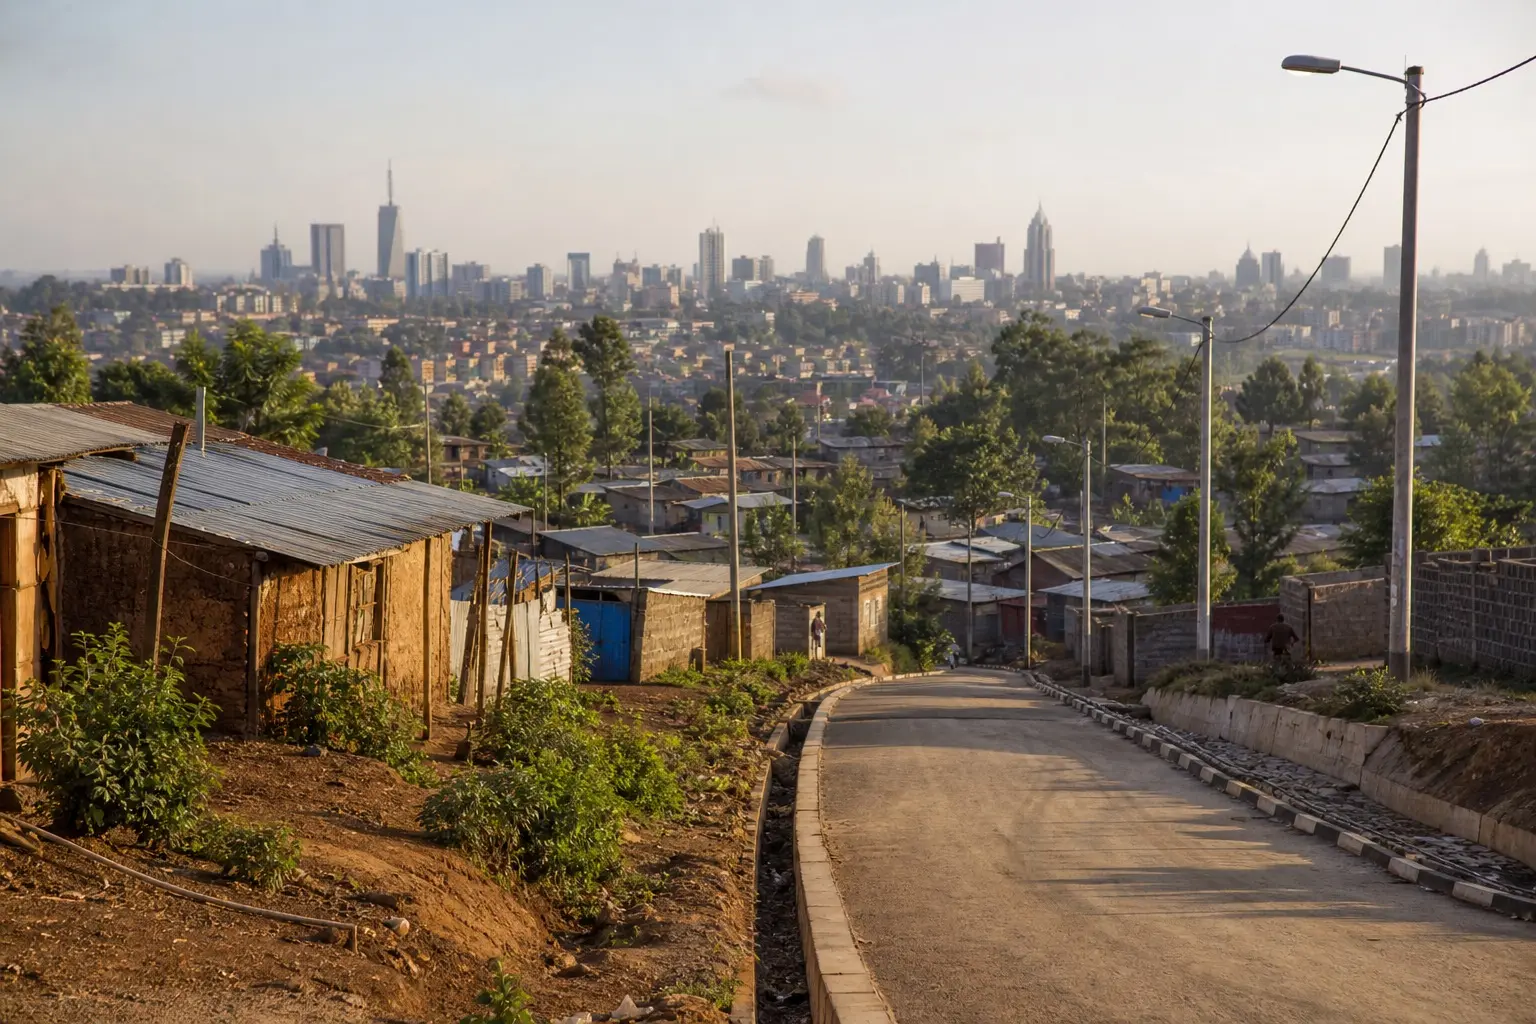
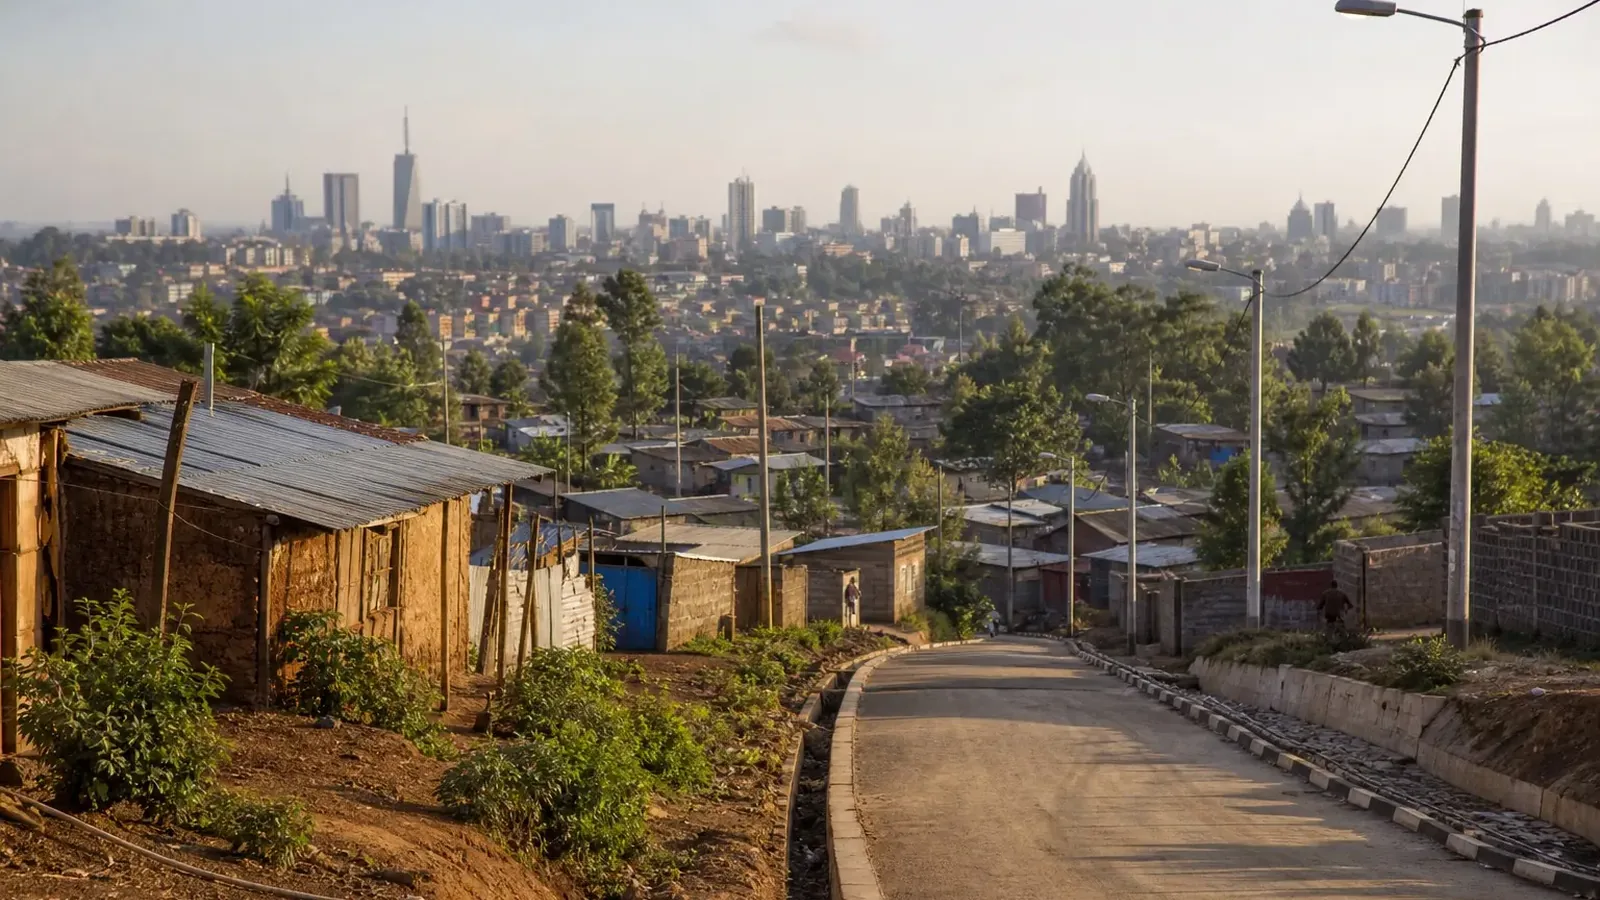
Calm the landing hero: better photos, a lighter panel and a shorter headline.
Lead with the drone shots, drop the blurry phone stills, crop the GPS
watermarks from the ones kept and add a satellite slide. The panel is
narrower and more translucent, keeps four quick links in one row, and the
headline is now a single short sentence.

diff --git a/src/views/Landing/components/HeroSection.vue b/src/views/Landing/components/HeroSection.vue
@@ -95,7 +95,7 @@
               @click="emit('action', item.action)"
             >
               <span class="gok-hero__quick-icon" aria-hidden="true">
-                <Icon :icon="item.icon" width="28" height="28" />
+                <Icon :icon="item.icon" width="20" height="20" />
               </span>
               <span class="gok-hero__quick-label">{{ item.label }}</span>
             </button>
@@ -227,10 +227,10 @@ onBeforeUnmount(() => {
   z-index: 2;
   background:
     linear-gradient(
-      105deg,
-      rgba(62, 39, 18, 0.72) 0%,
-      rgba(92, 58, 28, 0.55) 42%,
-      rgba(0, 0, 0, 0.32) 100%
+      180deg,
+      rgba(0, 0, 0, 0.08) 0%,
+      rgba(0, 0, 0, 0.18) 50%,
+      rgba(0, 0, 0, 0.45) 100%
     );
 }
 
@@ -261,12 +261,12 @@ onBeforeUnmount(() => {
   left: 50%;
   bottom: 0;
   z-index: 4;
-  width: min(100% - 2rem, var(--gok-max, 1160px));
+  width: min(100% - 2rem, 940px);
   transform: translate(-50%, 18%);
 }
 
 .gok-hero__intro {
-  margin: 0 0 1.1rem;
+  margin: 0 0 0.8rem;
   max-width: none;
   width: 100%;
   color: #fff;
@@ -300,16 +300,16 @@ onBeforeUnmount(() => {
   width: 100%;
   border-radius: 16px;
   overflow: hidden;
-  border: 1.5px solid rgba(255, 255, 255, 0.55);
-  box-shadow: 0 14px 40px rgba(0, 0, 0, 0.28);
-  backdrop-filter: blur(16px) saturate(1.1);
-  -webkit-backdrop-filter: blur(16px) saturate(1.1);
+  border: 1px solid rgba(255, 255, 255, 0.2);
+  box-shadow: 0 8px 24px rgba(0, 0, 0, 0.16);
+  backdrop-filter: blur(20px) saturate(1.2);
+  -webkit-backdrop-filter: blur(20px) saturate(1.2);
   animation: gok-hero-in 0.55s ease-out both;
 }
 
 .gok-hero__panel-main {
-  padding: 1.25rem 1.35rem 1.15rem;
-  background: color-mix(in srgb, #1a2228 75%, transparent);
+  padding: 0.85rem 1.15rem 0.6rem;
+  background: color-mix(in srgb, #1a2228 55%, transparent);
 }
 
 .gok-hero__search {
@@ -391,9 +391,9 @@ onBeforeUnmount(() => {
 
 .gok-hero__quick {
   display: grid;
-  grid-template-columns: repeat(8, minmax(0, 1fr));
-  gap: 0.35rem;
-  margin-top: 1.15rem;
+  grid-template-columns: repeat(4, minmax(0, 1fr));
+  gap: 0.5rem;
+  margin-top: 0.6rem;
 }
 
 .gok-hero__quick-item {
@@ -403,10 +403,10 @@ onBeforeUnmount(() => {
   color: #fff;
   cursor: pointer;
   display: flex;
-  flex-direction: column;
   align-items: center;
-  gap: 0.45rem;
-  padding: 0.45rem 0.2rem;
+  justify-content: center;
+  gap: 0.4rem;
+  padding: 0.35rem 0.5rem;
   border-radius: 10px;
   transition: background 0.15s ease, transform 0.15s ease;
   font: inherit;
@@ -421,16 +421,16 @@ onBeforeUnmount(() => {
   display: inline-flex;
   align-items: center;
   justify-content: center;
-  width: 2.6rem;
-  height: 2.6rem;
+  width: 1.5rem;
+  height: 1.5rem;
   color: #fff;
 }
 
 .gok-hero__quick-label {
-  font-size: 0.72rem;
+  font-size: 0.8rem;
   font-weight: 600;
   line-height: 1.25;
-  text-align: center;
+  text-align: left;
   color: rgba(255, 255, 255, 0.92);
 }
 
@@ -440,7 +440,7 @@ onBeforeUnmount(() => {
   align-items: center;
   justify-content: space-between;
   gap: 0.85rem;
-  padding: 0.95rem 1.35rem;
+  padding: 0.55rem 1.15rem;
   background: color-mix(in srgb, var(--gok-green, #00843d) 92%, #003d1c);
 }
 

diff --git a/src/views/Landing/config/landing.config.ts b/src/views/Landing/config/landing.config.ts
@@ -33,18 +33,16 @@ export const INSTITUTION = {
    */
   sudUrl: 'https://housingandurban.go.ke/kenya-slum-upgrading-programme-kensup/',
   /** Default / OG fallback */
-  heroImage: '/landing/hero/hero-01-street.webp',
+  heroImage: '/landing/hero/hero-03-aerial-roads.webp',
 } as const
 
 /** Rotating full-bleed hero backgrounds (compressed WebP, ~1600×900). */
 export const HERO_IMAGES = [
-  '/landing/hero/hero-01-street.webp',
   '/landing/hero/hero-03-aerial-roads.webp',
-  '/landing/hero/hero-06-hillside-sky.webp',
-  '/landing/hero/hero-02-hillside.webp',
-  '/landing/hero/hero-07-rooftops.webp',
-  '/landing/hero/hero-05-settlement-yard.webp',
+  '/landing/hero/hero-00-settlement-skyline.webp',
   '/landing/hero/hero-04-aerial-loop.webp',
+  '/landing/hero/hero-07-rooftops.webp',
+  '/landing/hero/hero-08-satellite.webp',
 ] as const
 
 /** Primary nav — path, home section, or authenticated portal destination */
@@ -87,7 +85,7 @@ export const MAIN_NAV: NavItem[] = [
 ]
 
 export const HERO = {
-  headline: 'Transforming Informal Settlements and Slums Through Data, Planning and Inclusive Development',
+  headline: "Using data to plan and upgrade Kenya's informal settlements.",
   support:
     'Access settlement information, programme progress, maps, reports and digital services supporting sustainable urban development across Kenya.',
   primaryCta: { label: 'Sign in', action: 'route:/login' },
@@ -127,34 +125,6 @@ export const HERO_QUICK_LINKS = [
     icon: 'mdi:database-outline',
     action: 'route:/data-request',
     hideOnMobile: true,
-  },
-  {
-    id: 'about',
-    label: 'About KeSMIS',
-    icon: 'mdi:information-outline',
-    action: 'route:/about',
-    hideOnMobile: false,
-  },
-  {
-    id: 'contact',
-    label: 'Contact Us',
-    icon: 'mdi:email-outline',
-    action: 'route:/contact',
-    hideOnMobile: true,
-  },
-  {
-    id: 'portal',
-    label: 'Management Portal',
-    icon: 'mdi:monitor-dashboard',
-    action: 'route:/login',
-    hideOnMobile: true,
-  },
-  {
-    id: 'docs',
-    label: 'Documentation',
-    icon: 'mdi:book-open-page-variant-outline',
-    action: 'route:/docs',
-    hideOnMobile: false,
   },
 ] as const
 
